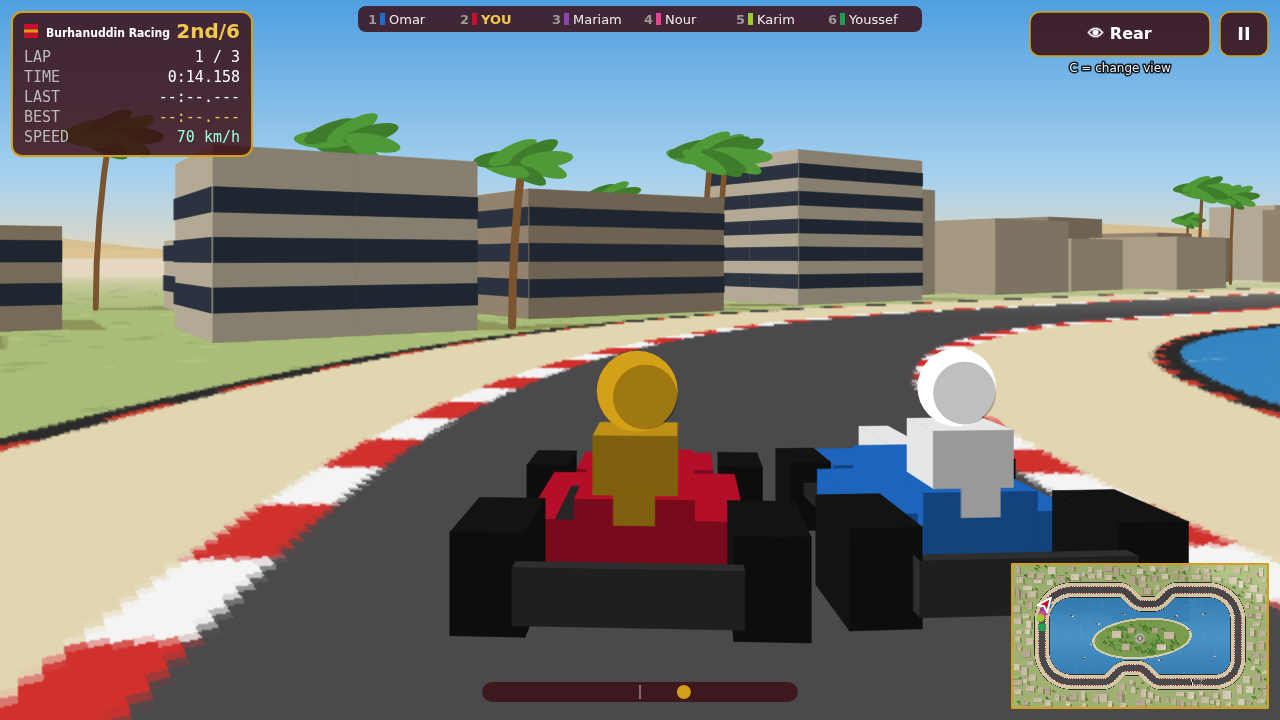
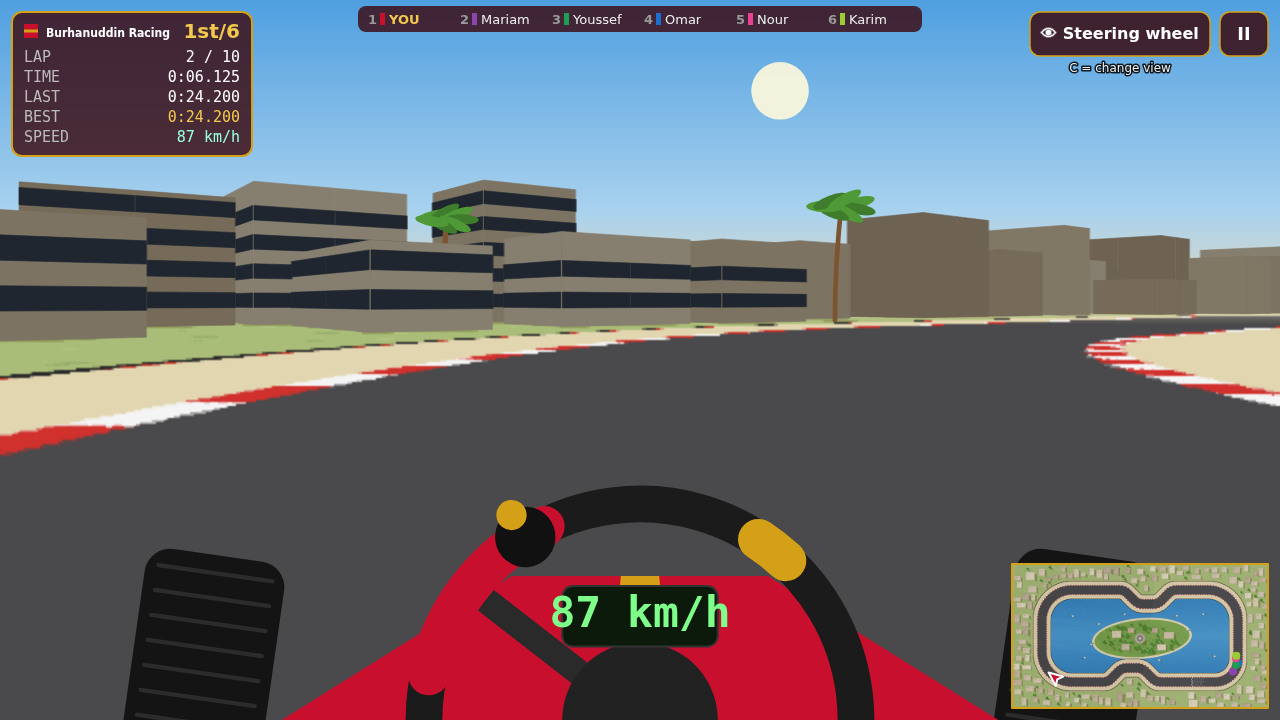
Wider roads: 90 px of asphalt instead of 60
ROAD_WIDTH in src/util.js sets it for every track. Checked that no two road
sections or corners collide at the new width. Computer drivers now stay on
the asphalt on every track and difficulty (0 s on sand). Version 12.

Claude-Session: https://claude.ai/code/session_01TEYMFR7s26ivgWhC1LWkUh

diff --git a/index.html b/index.html
@@ -29,23 +29,23 @@
   <canvas id="game" width="1280" height="720"></canvas>
 
   <!-- Plain scripts (not modules) so the game works by double-clicking this file.
-       The ?v=11 stops a browser mixing old and new files after an update: bump it with GAME_VERSION in util.js. -->
-  <script src="src/util.js?v=11"></script>
-  <script src="src/input.js?v=11"></script>
-  <script src="src/save.js?v=11"></script>
-  <script src="src/track.js?v=11"></script>
-  <script src="src/tracks/giza.js?v=11"></script>
-  <script src="src/tracks/cairo.js?v=11"></script>
-  <script src="src/tracks/nile.js?v=11"></script>
-  <script src="src/teams.js?v=11"></script>
-  <script src="src/kart.js?v=11"></script>
-  <script src="src/ai.js?v=11"></script>
-  <script src="src/economy.js?v=11"></script>
-  <script src="src/ghost.js?v=11"></script>
-  <script src="src/race.js?v=11"></script>
-  <script src="src/view3d.js?v=11"></script>
-  <script src="src/hud.js?v=11"></script>
-  <script src="src/garage.js?v=11"></script>
-  <script src="src/main.js?v=11"></script>
+       The ?v=12 stops a browser mixing old and new files after an update: bump it with GAME_VERSION in util.js. -->
+  <script src="src/util.js?v=12"></script>
+  <script src="src/input.js?v=12"></script>
+  <script src="src/save.js?v=12"></script>
+  <script src="src/track.js?v=12"></script>
+  <script src="src/tracks/giza.js?v=12"></script>
+  <script src="src/tracks/cairo.js?v=12"></script>
+  <script src="src/tracks/nile.js?v=12"></script>
+  <script src="src/teams.js?v=12"></script>
+  <script src="src/kart.js?v=12"></script>
+  <script src="src/ai.js?v=12"></script>
+  <script src="src/economy.js?v=12"></script>
+  <script src="src/ghost.js?v=12"></script>
+  <script src="src/race.js?v=12"></script>
+  <script src="src/view3d.js?v=12"></script>
+  <script src="src/hud.js?v=12"></script>
+  <script src="src/garage.js?v=12"></script>
+  <script src="src/main.js?v=12"></script>
 </body>
 </html>

diff --git a/src/util.js b/src/util.js
@@ -2,10 +2,14 @@
 
 // Bump this (and the ?v= numbers in index.html) whenever you release a change.
 // It's shown on the title screen so you can tell which version you are playing.
-const GAME_VERSION = '11  ·  2 Oct 2026';
+const GAME_VERSION = '12  ·  2 Oct 2026';
 
 // How many laps a race is. Every track uses this (a track can also set its own `laps`).
 const RACE_LAPS = 10;
+
+// How wide the road is (the asphalt, in pixels; a kart is about 15 wide). The red
+// and white kerbs add 6 on each side. A track can also set its own `roadWidth`.
+const ROAD_WIDTH = 90;
 
 // The screen is always 1280 x 720. The world (the map the tracks are built on)
 // is TRACK_SCALE times bigger in each direction, so a bigger TRACK_SCALE means

diff --git a/src/track.js b/src/track.js
@@ -106,7 +106,7 @@ class Track {
     this.name = def.name;
     this.subtitle = def.subtitle || '';
     this.laps = def.laps || RACE_LAPS;
-    this.roadWidth = def.roadWidth || 60;      // asphalt width
+    this.roadWidth = def.roadWidth || ROAD_WIDTH; // asphalt width
     this.kerbWidth = 6;                        // red/white kerb on each side
     this.runoff = def.runoff || 36;            // sand between kerb and tyre wall
     this.sectors = def.sectors || 12;          // checkpoints per lap

diff --git a/README.md b/README.md
@@ -44,6 +44,7 @@ A minimap in the corner shows the whole track in the 3D views.
 ## Tracks
 
 Pick the track in the garage (◀ ▶ or the ← → keys). Each track keeps its own best lap.
+The roads are wide (90 pixels of asphalt, about six karts across), so there is room to race side by side and overtake.
 The tracks are big: a lap takes about 25–50 seconds (a race is 10 laps, so about 4–8 minutes), and the
 map is four screens big, so in the top-down view the camera follows your kart.
 
@@ -128,6 +129,7 @@ to lap times; the Gearbox is for the start and for getting back up to speed afte
 
 ## Make it your own
 
+- **Make the roads wider or narrower:** `ROAD_WIDTH` in `src/util.js` (90 now; it was 60). A track can also set its own `roadWidth`.
 - **Make all the tracks bigger or smaller:** `TRACK_SCALE` in `src/util.js` (2 = twice as long,
   3 = three times, 1 = the original one-screen size). Records and ghosts are kept separately for each size.
 - **Change a track:** edit the corners in `src/tracks/giza.js`, `cairo.js` or `nile.js` and reload the page.

diff --git a/PLAN.md b/PLAN.md
@@ -192,3 +192,4 @@ burhanuddin-racing-gokart/
 10. **Big tracks:** the map is `TRACK_SCALE` (2) times bigger than one screen; the top-down camera follows the kart.
 11. **Upgrades are big:** engine 90 → 126 km/h, gearbox twice the acceleration, shown in real numbers in the garage.
 12. **Races are 10 laps** on every track (`RACE_LAPS` in `src/util.js`). Ghosts saved from shorter races are not used.
+13. **Wide roads:** 90 px of asphalt (was 60), set by `ROAD_WIDTH` in `src/util.js`.
